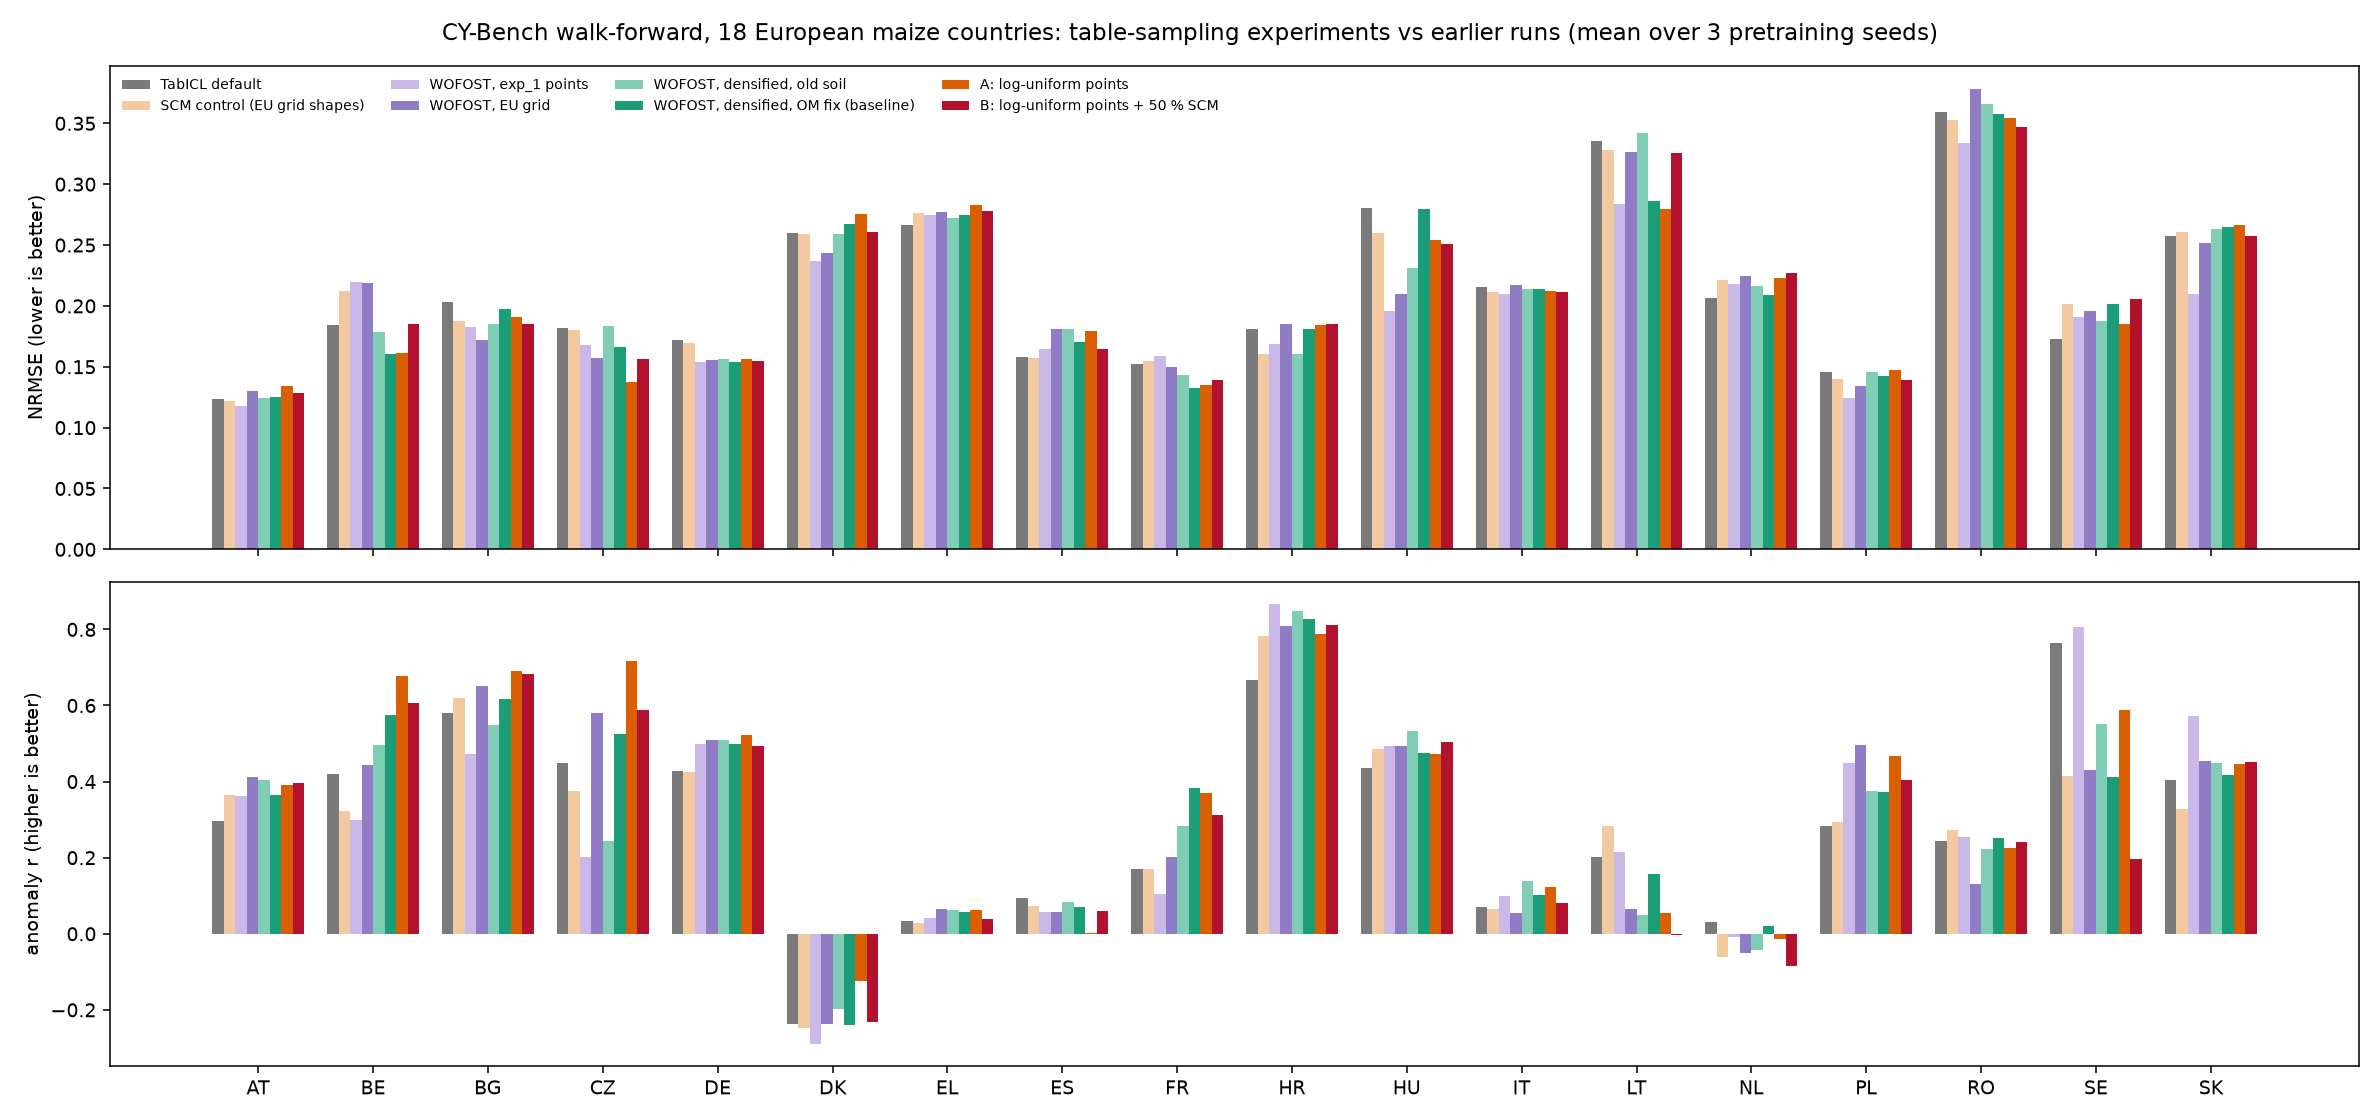
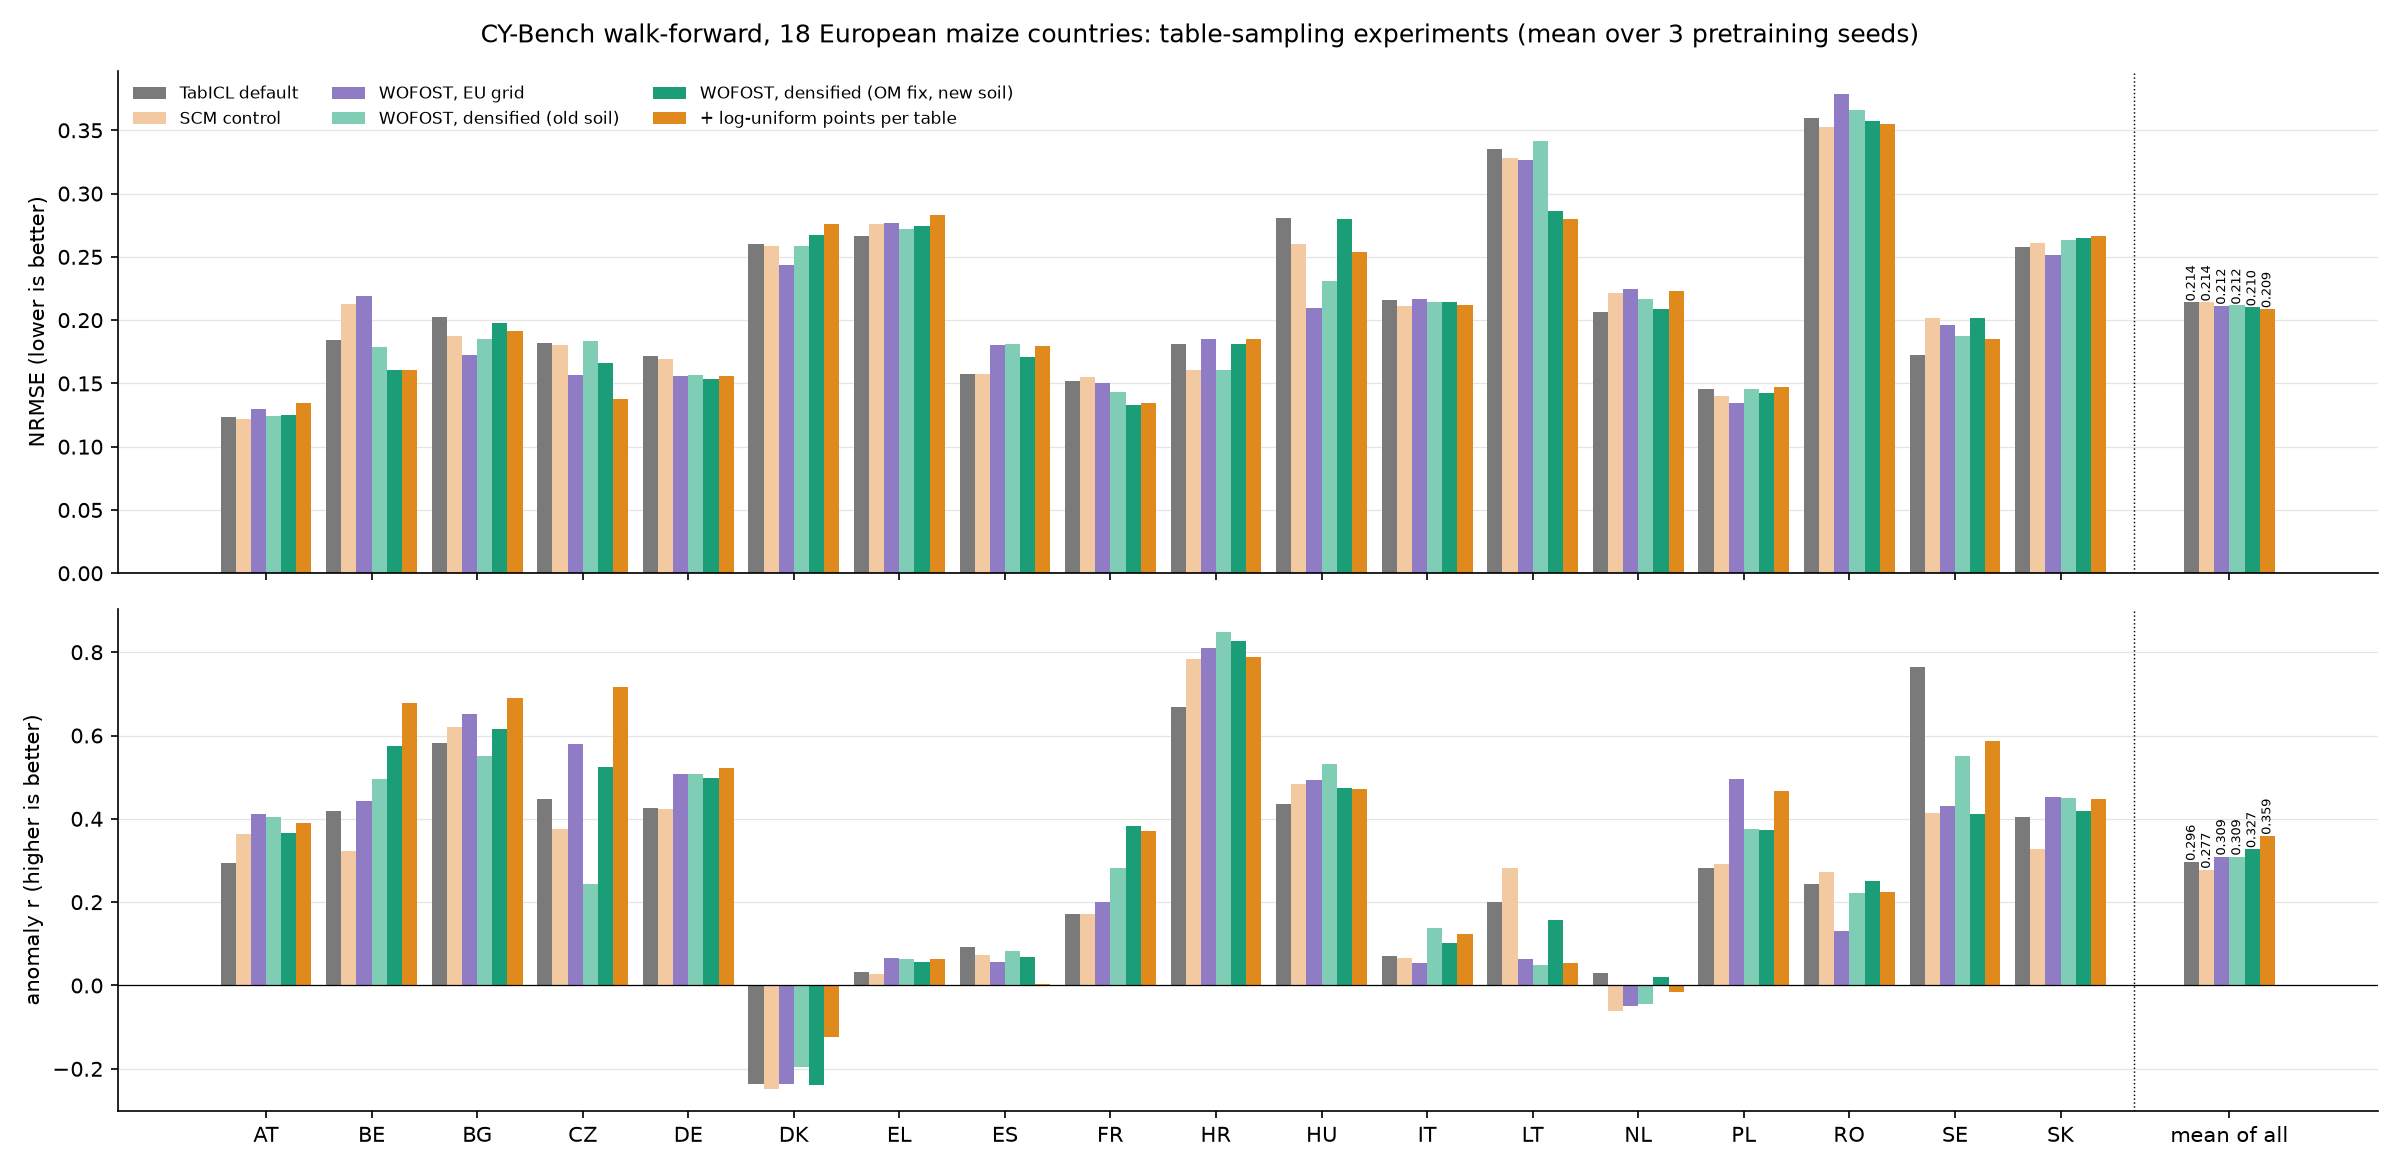
Clean bar plots for the OM-fix and sampling-experiment comparisons
analysis/soc_fix and analysis/sampling_exps: the per-country bar plots in the style used from here on (TabICL default, SCM control, WOFOST EU grid,
densified old soil, densified OM fix, + log-uniform points; a "mean of all" group at the right; mean over the 3 pretraining seeds).
sampling_exps also writes comparison_with_50p_scm.png (with the 50 % SCM run) next to comparison.png (without).

diff --git a/analysis/sampling_exps/compare_results.py b/analysis/sampling_exps/compare_results.py
@@ -34,9 +34,41 @@ RUNS = {
     "A: log-uniform points": ("exp_2a_loguniform_points", W),
     "B: log-uniform points + 50 % SCM": ("exp_2b_loguniform_points_scm", "tabicl_wofost:mix"),
 }
-COLORS = ["#7a7a7a", "#f2c9a0", "#c9b8e8", "#8f7cc4", "#7fcdb5", "#1b9e77", "#d95f02", "#b3122e"]
+# the clean figure (same names and colours as analysis/soc_fix): label in the figure -> (run above, colour)
+PLOT = {
+    "TabICL default": ("TabICL default", "#7a7a7a"),
+    "SCM control": ("SCM control (EU grid shapes)", "#f2c9a0"),
+    "WOFOST, EU grid": ("WOFOST, EU grid", "#8f7cc4"),
+    "WOFOST, densified (old soil)": ("WOFOST, densified, old soil", "#7fcdb5"),
+    "WOFOST, densified (OM fix, new soil)": ("WOFOST, densified, OM fix (baseline)", "#1b9e77"),
+    "+ log-uniform points per table": ("A: log-uniform points", "#e08a1e"),
+    "+ log-uniform points + 50 % SCM tables": ("B: log-uniform points + 50 % SCM", "#b3122e"),
+}
 BASELINE, A, B = list(RUNS)[5], list(RUNS)[6], list(RUNS)[7]
 
+
+def draw(per_country, countries, plot, path, suptitle):
+    plt.rcParams.update({"font.size": 10, "axes.spines.top": False, "axes.spines.right": False})
+    fig, axes = plt.subplots(2, 1, figsize=(16, 7.8), sharex=True)
+    n = len(plot)
+    w = 0.86 / n
+    x = np.arange(len(countries) + 1) + (np.arange(len(countries) + 1) >= len(countries)) * 0.6  # gap before the mean group
+    for ax, metric, title in ((axes[0], "nrmse", "NRMSE (lower is better)"), (axes[1], "anomaly_r", "anomaly r (higher is better)")):
+        for i, (label, (run, color)) in enumerate(plot.items()):
+            vals = per_country[metric][run].tolist() + [per_country[metric][run].mean()]
+            pos = x + (i - (n - 1) / 2) * w
+            ax.bar(pos, vals, w, color=color, label=label)
+            ax.text(pos[-1], vals[-1] + (0.003 if metric == "nrmse" else 0.01), f"{vals[-1]:.3f}", ha="center", fontsize=6, rotation=90)
+        ax.axvline(len(countries) - 0.3, color="k", lw=0.7, ls=":")
+        ax.axhline(0, color="k", lw=0.6)
+        ax.set_ylabel(title)
+        ax.grid(axis="y", color="#e5e5e5", lw=0.6)
+        ax.set_axisbelow(True)
+    axes[1].set_xticks(x, countries + ["mean of all"])
+    axes[0].legend(fontsize=8, ncol=3, frameon=False, loc="upper left")
+    fig.suptitle(suptitle)
+    fig.tight_layout()
+    fig.savefig(path, dpi=150)
 
 def main():
     frames = []
@@ -71,19 +103,10 @@ def main():
                   f"(mean diff {d.mean():+.4f}); anomaly r higher in {(a > 0).sum()} (mean diff {a.mean():+.4f})")
 
     countries = per_country.index.tolist()
-    fig, axes = plt.subplots(2, 1, figsize=(17, 8), sharex=True)
-    n = len(runs)
-    x, w = np.arange(len(countries)), 0.8 / n
-    for ax, metric, title in ((axes[0], "nrmse", "NRMSE (lower is better)"), (axes[1], "anomaly_r", "anomaly r (higher is better)")):
-        for i, run in enumerate(runs):
-            ax.bar(x + (i - (n - 1) / 2) * w, per_country[metric][run], w, color=COLORS[list(RUNS).index(run)], label=run)
-        ax.set_ylabel(title)
-    axes[1].set_xticks(x, countries)
-    axes[0].legend(fontsize=7, ncol=4, frameon=False)
-    fig.suptitle("CY-Bench walk-forward, 18 European maize countries: table-sampling experiments vs earlier runs (mean over 3 pretraining seeds)")
-    fig.tight_layout()
-    fig.savefig(f"{OUT}/figures/comparison.png", dpi=140)
-
+    title = "CY-Bench walk-forward, 18 European maize countries: table-sampling experiments (mean over 3 pretraining seeds)"
+    draw(per_country, countries, PLOT, f"{OUT}/figures/comparison_with_50p_scm.png", title)
+    no_scm = {k: v for k, v in PLOT.items() if "SCM tables" not in k}  # without the 50 % SCM run (B)
+    draw(per_country, countries, no_scm, f"{OUT}/figures/comparison.png", title)
 
 if __name__ == "__main__":
     main()

diff --git a/analysis/soc_fix/compare_results.py b/analysis/soc_fix/compare_results.py
@@ -28,7 +28,14 @@ RUNS = {
     "WOFOST, densified EU grid (old soil)": ("exp_1_eu_grid_dense", "tabicl_wofost:wofost"),
     "WOFOST, densified EU grid, OM fix": ("exp_1_eu_grid_dense_omfix", "tabicl_wofost:wofost"),
 }
-COLORS = ["#7a7a7a", "#c9b8e8", "#f2c9a0", "#8f7cc4", "#d95f02", "#7fcdb5", "#1b9e77"]
+# the clean figure: label in the figure -> run above
+PLOT = {
+    "TabICL default": ("TabICL default", "#7a7a7a"),
+    "SCM control": ("SCM control, EU grid", "#f2c9a0"),
+    "WOFOST, EU grid": ("WOFOST, EU grid", "#8f7cc4"),
+    "WOFOST, densified (old soil)": ("WOFOST, densified EU grid (old soil)", "#7fcdb5"),
+    "WOFOST, densified (OM fix, new soil)": ("WOFOST, densified EU grid, OM fix", "#1b9e77"),
+}
 
 
 def main():
@@ -56,18 +63,27 @@ def main():
           f"anomaly r higher in {(per_country['anomaly_r']['WOFOST, densified EU grid, OM fix'] > per_country['anomaly_r']['WOFOST, densified EU grid (old soil)']).sum()}")
 
     countries = per_country.index.tolist()
+    plt.rcParams.update({"font.size": 10, "axes.spines.top": False, "axes.spines.right": False})
     fig, axes = plt.subplots(2, 1, figsize=(15, 7.5), sharex=True)
-    x, w = np.arange(len(countries)), 0.11
+    n = len(PLOT)
+    w = 0.84 / n
+    x = np.arange(len(countries) + 1) + (np.arange(len(countries) + 1) >= len(countries)) * 0.6  # gap before the mean group
     for ax, metric, title in ((axes[0], "nrmse", "NRMSE (lower is better)"), (axes[1], "anomaly_r", "anomaly r (higher is better)")):
-        for i, (run, c) in enumerate(zip(RUNS, COLORS)):
-            ax.bar(x + (i - 3) * w, per_country[metric][run], w, color=c, label=run)
+        for i, (label, (run, color)) in enumerate(PLOT.items()):
+            vals = per_country[metric][run].tolist() + [per_country[metric][run].mean()]
+            pos = x + (i - (n - 1) / 2) * w
+            ax.bar(pos, vals, w, color=color, label=label)
+            ax.text(pos[-1], vals[-1] + (0.003 if metric == "nrmse" else 0.01), f"{vals[-1]:.3f}", ha="center", fontsize=7, rotation=90)
+        ax.axvline(len(countries) - 0.3, color="k", lw=0.7, ls=":")
+        ax.axhline(0, color="k", lw=0.6)
         ax.set_ylabel(title)
-    axes[1].set_xticks(x, countries)
-    axes[0].legend(fontsize=7, ncol=4, frameon=False)
-    fig.suptitle("CY-Bench walk-forward, 18 European maize countries: OM-fix run vs earlier runs (mean over pretraining seeds)")
+        ax.grid(axis="y", color="#e5e5e5", lw=0.6)
+        ax.set_axisbelow(True)
+    axes[1].set_xticks(x, countries + ["mean of all"])
+    axes[0].legend(fontsize=8, ncol=3, frameon=False, loc="upper left")
+    fig.suptitle("CY-Bench walk-forward, 18 European maize countries (mean over 3 pretraining seeds)")
     fig.tight_layout()
-    fig.savefig(f"{OUT}/figures/comparison.png", dpi=140)
-
+    fig.savefig(f"{OUT}/figures/comparison.png", dpi=150)
 
 if __name__ == "__main__":
     main()
